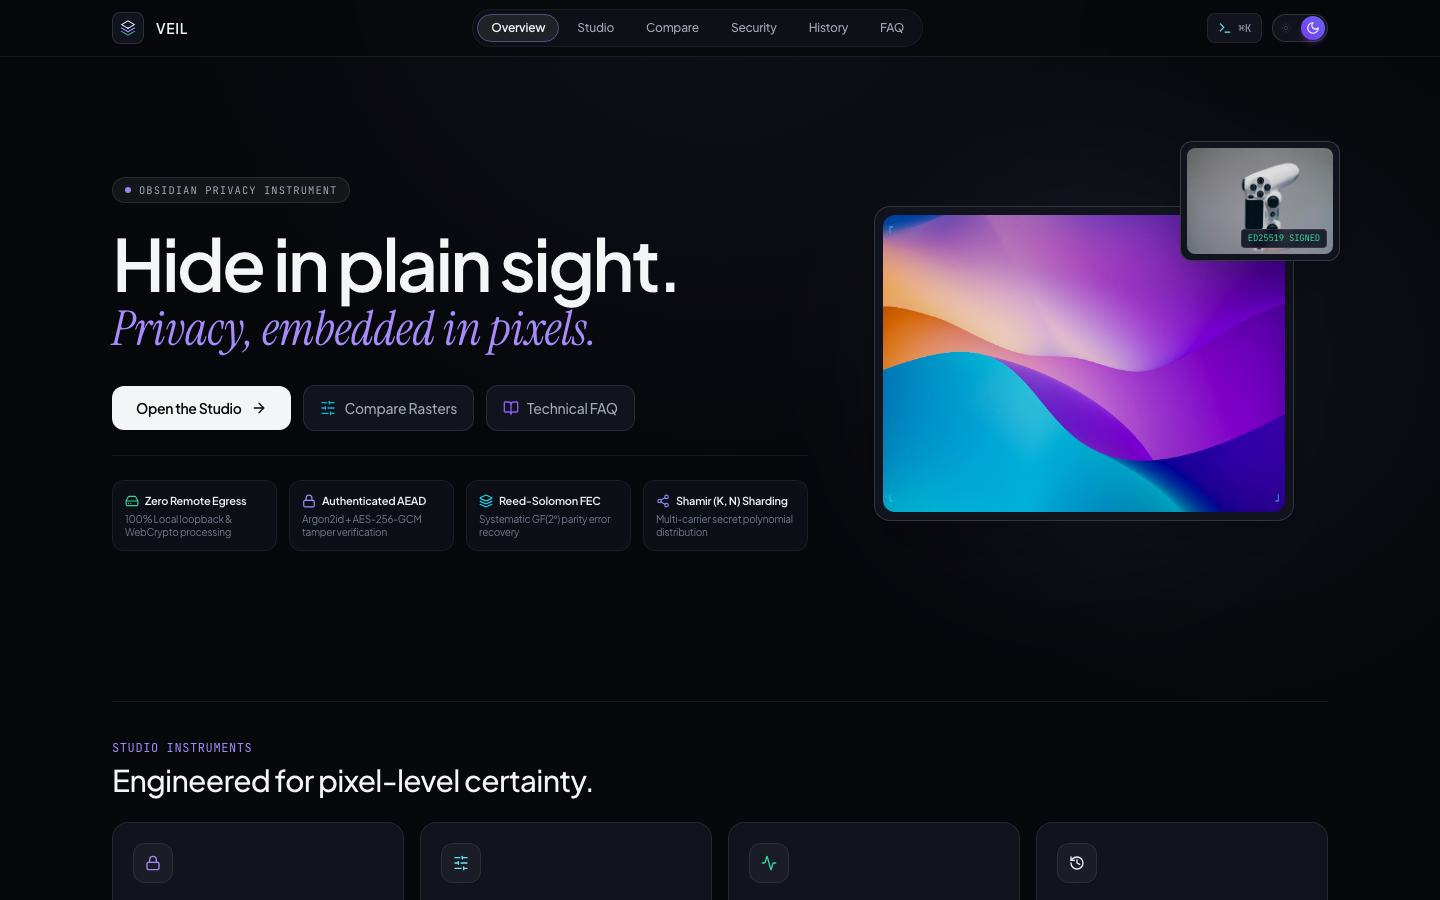
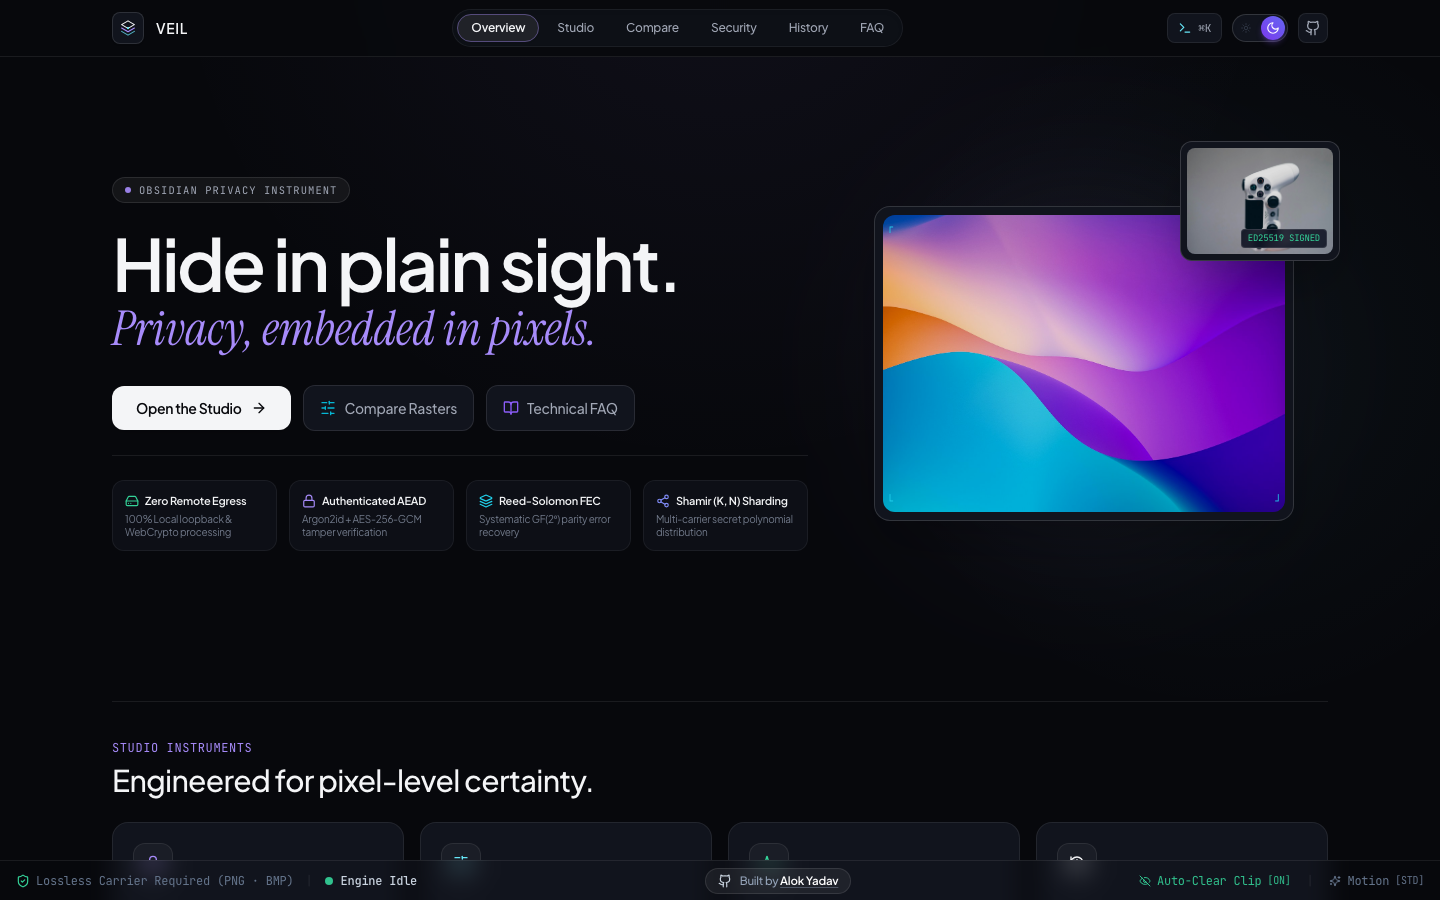
docs: add live deployment link https://veil-20l2.onrender.com, author credits, and updated interface showcases

diff --git a/README.md b/README.md
@@ -6,6 +6,13 @@
 
 An obsidian-grade, privacy-first digital image steganography platform and cryptographic telemetry studio. Conceal authenticated, AES-256-GCM encrypted payloads inside losslessly encoded carrier images with zero cloud egress, plausible deniability, error correction, and multi-carrier secret distribution.
 
+<br />
+
+[![Live Demo](https://img.shields.io/badge/Live%20Demo-veil--20l2.onrender.com-8B5CF6?style=for-the-badge&logo=render&logoColor=white)](https://veil-20l2.onrender.com)
+[![GitHub Profile](https://img.shields.io/badge/Built%20by-Alok%20Yadav-09090B?style=for-the-badge&logo=github&logoColor=white)](https://github.com/Alok-Yadav25)
+
+<br />
+
 [![Backend Tests](https://img.shields.io/badge/Backend%20Tests-62%2F62%20Passing-brightgreen?style=flat-square&logo=java)](backend)
 [![Frontend Tests](https://img.shields.io/badge/Frontend%20Tests-17%2F17%20Passing-brightgreen?style=flat-square&logo=react)](frontend)
 [![TypeScript](https://img.shields.io/badge/TypeScript-Strict%20(0%20Errors)-blue?style=flat-square&logo=typescript)](frontend)
@@ -17,6 +24,11 @@ An obsidian-grade, privacy-first digital image steganography platform and crypto
 
 <br />
 
+🌐 **Live Application:** [**https://veil-20l2.onrender.com**](https://veil-20l2.onrender.com)  
+👤 **Author:** [**Alok Yadav (@Alok-Yadav25)**](https://github.com/Alok-Yadav25)
+
+<br />
+
 <img src="docs/images/hero-dark.png" alt="VEIL Editorial Hero Dark Theme" width="100%" style="border-radius: 12px; box-shadow: 0 20px 40px rgba(0,0,0,0.4);" />
 
 </div>
@@ -25,26 +37,40 @@ An obsidian-grade, privacy-first digital image steganography platform and crypto
 
 ## Table of Contents
 
+- [Live Deployment](#live-deployment)
 - [Overview & Philosophy](#overview--philosophy)
 - [Visual Interface Showcase](#visual-interface-showcase)
 - [Key Architectural Pillars](#key-architectural-pillars)
-  - [1. Authenticated Zero-Knowledge Cryptography](#1-authenticated-zero-knowledge-cryptography)
+  - [1. Authenticated Cryptography & Framing](#1-authenticated-cryptography--framing)
   - [2. Dual-Domain Steganography (Spatial LSB & 2D-DCT)](#2-dual-domain-steganography-spatial-lsb--2d-dct)
-  - [3. Reed-Solomon Forward Error Correction (FEC)](#3-reed-solomon-forward-error-correction-fec)
+  - [3. Pure-Java Reed-Solomon Error Correction (FEC)](#3-pure-java-reed-solomon-error-correction-fec)
   - [4. Dual-Payload Plausible Deniability](#4-dual-payload-plausible-deniability)
   - [5. Multi-Carrier Secret Sharding (Shamir K-of-N)](#5-multi-carrier-secret-sharding-shamir-k-of-n)
-  - [6. Ed25519 Cryptographic Image Provenance](#6-ed25519-cryptographic-image-provenance)
+  - [6. Pixel-Exact Ed25519 Provenance Attribution](#6-pixel-exact-ed25519-provenance-attribution)
   - [7. Air-Gapped Client-Side Processing](#7-air-gapped-client-side-processing)
 - [System Architecture](#system-architecture)
-- [Interface Design System](#interface-design-system)
+- [Design System & Interface Tokens](#design-system--interface-tokens)
 - [Getting Started](#getting-started)
   - [Prerequisites](#prerequisites)
   - [Local Development Setup](#local-development-setup)
-  - [Running Test Suites](#running-test-suites)
-- [Free Cloud Deployment](#free-cloud-deployment)
+  - [Running Automated Test Suites](#running-automated-test-suites)
+- [Cloud Deployment on Render](#cloud-deployment-on-render)
 - [Cryptographic Disclosures & Threat Model](#cryptographic-disclosures--threat-model)
 - [Monorepo Directory Layout](#monorepo-directory-layout)
+- [Author & Credits](#author--credits)
 - [License](#license)
+
+---
+
+## Live Deployment
+
+VEIL is deployed and accessible worldwide as a unified production container on Render:
+
+🔗 **Production Web Application:** [**https://veil-20l2.onrender.com**](https://veil-20l2.onrender.com)
+
+- **Architecture:** Multi-stage production container packaging the React 18 TypeScript SPA inside a lightweight Eclipse Temurin 21 Alpine JRE.
+- **Data Protection:** Zero remote analytics, zero third-party trackers, zero cloud payload uploads. Plaintext payloads and encryption passphrases never touch persistent disk.
+- **Client Fallback:** If internet connectivity is severed, VEIL's WebCrypto engine executes entirely client-side inside the browser.
 
 ---
 
@@ -55,10 +81,10 @@ An obsidian-grade, privacy-first digital image steganography platform and crypto
 VEIL conceals authenticated, encrypted data directly within the pixel raster of digital images. To visual inspection, automated screen capture, and non-forensic pipelines, a VEIL stego image is indistinguishable from its pristine master ($\text{PSNR} > 75\text{ dB}$).
 
 ### Core Design Principles
-- **No Fabricated Claims:** Zero marketing buzzwords or claims of "unbreakable" compression survival. Physical limits are explicitly disclosed.
-- **Zero Server Retention:** Plaintext payloads and encryption passphrases never touch disk. Memory buffers are zeroized upon completion.
+- **No Fabricated Claims:** Zero marketing buzzwords or false claims of "unbreakable" lossy compression survival. Physical and mathematical limits are explicitly disclosed.
+- **Zero Server Retention:** Plaintext payloads and passphrases are processed in volatile memory only and zeroized immediately upon completion.
 - **Auditable Cryptographic Standards:** Built strictly upon NIST SP 800-38D (AES-GCM), RFC 9106 (Argon2id), RFC 8032 (Ed25519), and Reed-Solomon $GF(2^8)$ coding.
-- **Linear/Raycast Precision:** High-contrast typography, 1px structural hairline borders, tactile spring-loaded controls, and zero hydration layout shifts.
+- **Obsidian Aesthetic:** Linear and Raycast-inspired interface with tactile spring physics, high-contrast typography, and seamless light/dark modes.
 
 ---
 
@@ -66,31 +92,31 @@ VEIL conceals authenticated, encrypted data directly within the pixel raster of 
 
 <div align="center">
 
-### The Steganography Studio (6-Stage Progressive Pipeline)
-*Fanned carrier gallery, reticle upload dropzone, real-time bit capacity ring, and Argon2id parameter telemetry.*
+### High-Contrast Light Theme (`#FAFAF9`)
+*Tactile sliding knob, pure white card surfaces, slate hairline dividers, and persistent bottom telemetry footer.*
 
-<img src="docs/images/studio-workspace.png" alt="VEIL Studio Workspace Dark Theme" width="92%" style="border-radius: 10px; margin-bottom: 24px;" />
+<img src="docs/images/hero-light.png" alt="VEIL Hero Light Theme" width="94%" style="border-radius: 10px; margin-bottom: 24px;" />
 
 <br />
 
-### High Contrast Light Theme (`#FAFAF9`)
-*Refined off-white surface, pure white cards, and slate hairline borders powered by a spring-animated sliding knob.*
+### The Steganography Studio (6-Stage Progressive Pipeline)
+*Fanned carrier gallery, reticle upload dropzone, real-time bit capacity ring, and Argon2id parameter telemetry.*
 
-<img src="docs/images/hero-light.png" alt="VEIL Hero Light Theme" width="92%" style="border-radius: 10px; margin-bottom: 24px;" />
+<img src="docs/images/studio-workspace.png" alt="VEIL Studio Workspace Dark Theme" width="94%" style="border-radius: 10px; margin-bottom: 24px;" />
 
 <br />
 
 ### Sub-Pixel Inspection & Difference Heatmap Instrument
 *Synchronized split-curtain slider, 10× difference mask amplification, PSNR ($80.89\text{ dB}$), and MSE ($0.000530$).*
 
-<img src="docs/images/pixel-inspection.png" alt="VEIL Pixel Inspection Compare" width="92%" style="border-radius: 10px; margin-bottom: 24px;" />
+<img src="docs/images/pixel-inspection.png" alt="VEIL Pixel Inspection Compare" width="94%" style="border-radius: 10px; margin-bottom: 24px;" />
 
 <br />
 
 ### Technical FAQ Accordion & Truthful Disclosures
 *Accessible expanding accordion (`Faq4` style) with real-time search and rigorous physical and cryptographic answers.*
 
-<img src="docs/images/technical-faq.png" alt="VEIL Technical FAQ Accordion" width="92%" style="border-radius: 10px; margin-bottom: 24px;" />
+<img src="docs/images/technical-faq.png" alt="VEIL Technical FAQ Accordion" width="94%" style="border-radius: 10px; margin-bottom: 24px;" />
 
 <br />
 
@@ -105,7 +131,7 @@ VEIL conceals authenticated, encrypted data directly within the pixel raster of 
 
 ## Key Architectural Pillars
 
-### 1. Authenticated Zero-Knowledge Cryptography
+### 1. Authenticated Cryptography & Framing
 - **Memory-Hard Key Derivation:** Employs **Argon2id** (RFC 9106) with a 16-byte cryptographically secure random salt, requiring 19 MiB working memory, 2 iterations, and 1 lane to neutralize parallelized ASIC/GPU brute-force attacks.
 - **Authenticated Encryption with Associated Data (AEAD):** Plaintext is encrypted with **AES-256-GCM** using unique 96-bit initialization vectors. The resulting 128-bit authentication tag guarantees that modifying even a single carrier bit triggers an immediate authentication rejection during extraction.
 - **Big-Endian Binary Framing:** Payloads use strict binary length prefixing (`magic [4B]`, `version [2B]`, `flags [2B]`, `length [4B]`, `salt [16B]`, `iv [12B]`), preventing premature stream truncation from interior null bytes (`0x00`).
@@ -114,7 +140,7 @@ VEIL conceals authenticated, encrypted data directly within the pixel raster of 
 - **Keyed Feistel PRNG Scatter (Spatial):** Replaces naive sequential pixel writing with a pseudo-random permutation generator derived from the encryption key. Payload bits are scattered pseudo-randomly across non-contiguous pixels, preventing spatial boundary clustering detectable by Chi-Square ($\chi^2$) analysis.
 - **2D-DCT Frequency-Domain Modulation:** For lossy-resistant embedding, VEIL transforms $8\times 8$ luminance ($Y$) blocks into frequency coefficients via 2D Discrete Cosine Transform, modulating mid-frequency AC coefficients ($AC_{3,1}$ and $AC_{4,0}$) to survive moderate post-processing.
 
-### 3. Reed-Solomon Forward Error Correction (FEC)
+### 3. Pure-Java Reed-Solomon Error Correction (FEC)
 - **In-House Pure-Java Codec:** Implemented over Galois Field $GF(2^8)$ with irreducible generator polynomial $p(x) = x^8 + x^4 + x^3 + x^2 + 1$ ($0x11D$).
 - **Parity Error Recovery:** Generates systematic parity symbols across chunked payload blocks. Automatically detects and corrects up to $T = \lfloor(N - K) / 2\rfloor$ corrupted bytes caused by image noise, channel degradation, or minor spatial modifications.
 
@@ -126,13 +152,13 @@ VEIL conceals authenticated, encrypted data directly within the pixel raster of 
 - **Threshold Polynomial Secret Distribution:** Breaks sensitive secrets into $N$ polynomial shares over $GF(2^8)$ and embeds each share in an independent carrier image.
 - **Information-Theoretic Security:** Any $K$ carrier images can fully reconstruct the original secret. An adversary possessing $K - 1$ images gains strictly zero mathematical information about the payload.
 
-### 6. Ed25519 Cryptographic Image Provenance
-- **Pixel-Exact Authorship Attribution:** Generates RFC 8032 Ed25519 public/private keypairs to sign the SHA-256 raster hash of carrier images.
-- **Tamper Verification:** Allows recipients to verify author identity and detect single-bit pixel tampering through an embedded digital provenance manifest.
+### 6. Pixel-Exact Ed25519 Provenance Attribution
+- **Authorship Verification:** Generates RFC 8032 Ed25519 public/private keypairs to sign the SHA-256 raster hash of carrier images.
+- **Tamper Detection:** Allows recipients to verify author identity and detect single-bit pixel tampering through an embedded digital provenance manifest.
 
 ### 7. Air-Gapped Client-Side Processing
 - **100% In-Browser Engine:** Provides client-side fallback via the W3C Web Cryptography API (`SubtleCrypto` AES-GCM and PBKDF2) and HTML5 Canvas pixel manipulation.
-- **No Backend Required:** Sensitive operations can execute completely air-gapped with network access severed.
+- **Severed Network Operation:** Sensitive operations can execute completely offline with network access disabled.
 
 ---
 
@@ -146,11 +172,13 @@ flowchart TD
         UI["Obsidian Studio UI & Editorial Components"]
         Theme["ThemeProvider (Dark Midnight / High Contrast Light)"]
         OfflineEngine["Offline Stego Engine (WebCrypto + Canvas LSB)"]
+        Footer["Universal Fixed Footer (Built by Alok Yadav)"]
         UI --> Theme
         UI --> OfflineEngine
+        UI --> Footer
     end
     
-    Client -->|HTTP REST Multipart / JSON| Backend["Spring Boot 3.3.4 Application (Port 8080)"]
+    Client -->|HTTP REST Multipart / JSON| Backend["Spring Boot 3.3.4 Application (Port 10000)"]
     
     subgraph Backend Pipeline
         Controller["REST Controllers (/api/v1/*)"]
@@ -175,7 +203,7 @@ flowchart TD
 
 ---
 
-## Interface Design System
+## Design System & Interface Tokens
 
 | Token | Dark Midnight | High Contrast Light | Semantic Purpose |
 | :--- | :--- | :--- | :--- |
@@ -213,7 +241,7 @@ chmod +x scripts/*.sh
    cd backend
    ./mvnw spring-boot:run
    ```
-   *Backend binds to `http://127.0.0.1:8080`.*
+   *Backend binds to `http://127.0.0.1:8080` (or `http://127.0.0.1:10000`).*
    - Swagger UI: `http://127.0.0.1:8080/api/v1/swagger-ui.html`
    - Health Endpoint: `http://127.0.0.1:8080/api/v1/health`
 
@@ -227,7 +255,7 @@ chmod +x scripts/*.sh
 
 ---
 
-### Running Test Suites
+### Running Automated Test Suites
 
 #### Backend Unit & Integration Tests (JUnit 5)
 Executes all 62 cryptographic, Reed-Solomon, 2D-DCT, Shamir, and concurrency tests:
@@ -261,21 +289,26 @@ npm run build
 
 ---
 
-## Free Cloud Deployment
+## Cloud Deployment on Render
 
-VEIL includes a multi-stage production [`Dockerfile`](file:///Users/alokyadav/Desktop/image_detail/Dockerfile) that builds the React frontend and packages it into Spring Boot's static resources, allowing **both the frontend and backend to run inside a single free cloud container**.
+VEIL is pre-configured with a multi-stage production [`Dockerfile`](file:///Users/alokyadav/Desktop/image_detail/Dockerfile) and [`render.yaml`](file:///Users/alokyadav/Desktop/image_detail/render.yaml) blueprint.
 
-### 1-Click Deployment via Render.com
-1. Push your repository to GitHub.
-2. Log in to [Render.com](https://render.com) and click **New +** $\to$ **Blueprint**.
-3. Select your repository. Render reads the included [`render.yaml`](file:///Users/alokyadav/Desktop/image_detail/render.yaml) and deploys automatically on the free tier.
+### Live Production Deployment
+- **URL:** [https://veil-20l2.onrender.com](https://veil-20l2.onrender.com)
+- **Host:** Render Web Service (Free Tier)
+- **Runtime:** Multi-Stage Docker (Eclipse Temurin JRE 21 + Alpine Linux)
+- **Memory Optimization:** Tuned with `-Xms128m -Xmx350m -XX:+TieredCompilation -XX:TieredStopAtLevel=1` for fast cold starts without out-of-memory faults.
 
-### 16GB RAM Free Deployment via Hugging Face Spaces
-1. Create a free account at [huggingface.co](https://huggingface.co) and click **Create new Space**.
-2. Select **Docker** $\to$ **Blank** with the free **2 vCPU · 16 GB RAM** hardware tier.
-3. Push your repository to the space Git remote. Hugging Face runs the multi-stage Dockerfile with **zero sleep / spin-down**.
+### Deploying Your Own Instance
+1. Fork or push this repository to GitHub.
+2. Sign in to [Render.com](https://render.com) and click **New +** $\to$ **Web Service**.
+3. Select your repository and choose **Docker** runtime on the **Free** plan.
+4. Add environment variables:
+   - `SERVER_ADDRESS` = `0.0.0.0`
+   - `SQLITE_DB_PATH` = `/app/data/veil.db`
+5. Click **Create Web Service**. Render builds the image and deploys within 2–3 minutes.
 
-*See the full [Free Deployment Guide](docs/architecture/free_deployment_guide.md) for Koyeb, Fly.io, and Vercel setup.*
+*See the full [Free Deployment Guide](docs/architecture/free_deployment_guide.md) for Koyeb, Hugging Face Spaces, and Fly.io configurations.*
 
 ---
 
@@ -316,7 +349,7 @@ veil/
 │   │   ├── components/
 │   │   │   ├── brand/                    # VEIL vector logos and brand symbols
 │   │   │   ├── landing/                  # Editorial HeroSection & FaqSection accordion
-│   │   │   ├── layout/                   # AppShell, Linear navigation, BottomStatusBar
+│   │   │   ├── layout/                   # AppShell, Linear navigation, BottomStatusBar (Author link)
 │   │   │   ├── navigation/               # CommandPalette (⌘K), Sidebar
 │   │   │   ├── studio/                   # 6-stage progressive choreography components
 │   │   │   └── ui/                       # Spring ThemeSwitcher knob, BentoCard, PillBadge
@@ -334,6 +367,17 @@ veil/
 ├── render.yaml                           # 1-Click Render.com deployment blueprint
 └── LICENSE                               # Apache 2.0 Open Source License
 ```
+
+---
+
+## Author & Credits
+
+Designed, architected, and built by:
+
+**Alok Yadav**
+- 🐙 **GitHub:** [@Alok-Yadav25](https://github.com/Alok-Yadav25)
+- 🚀 **Live Project:** [https://veil-20l2.onrender.com](https://veil-20l2.onrender.com)
+- 📦 **Repository:** [https://github.com/Alok-Yadav25/VEIL](https://github.com/Alok-Yadav25/VEIL)
 
 ---
 
